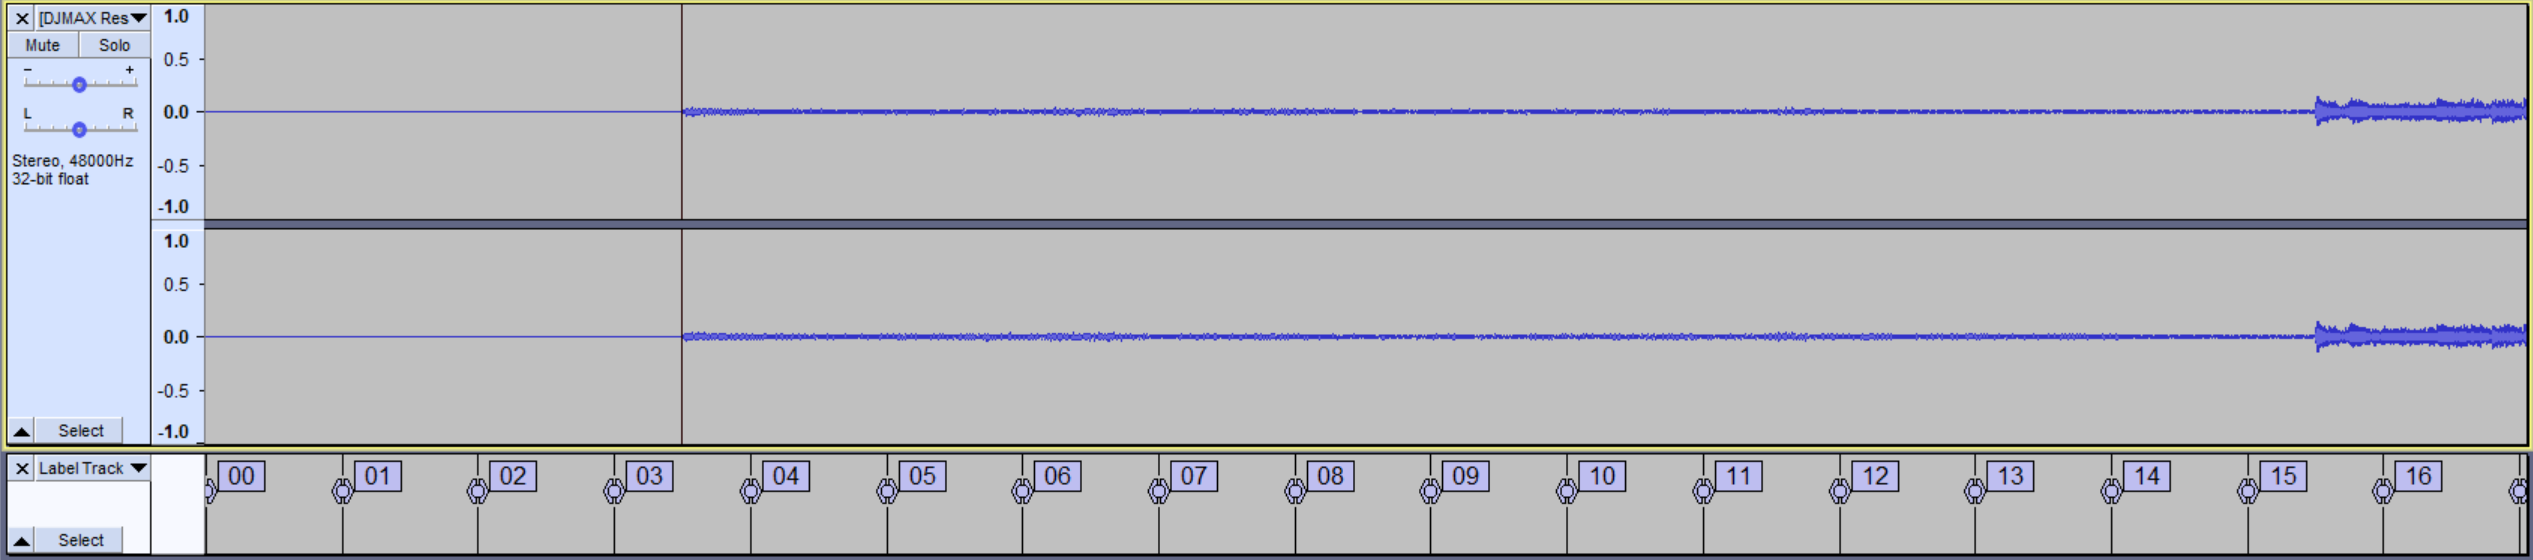
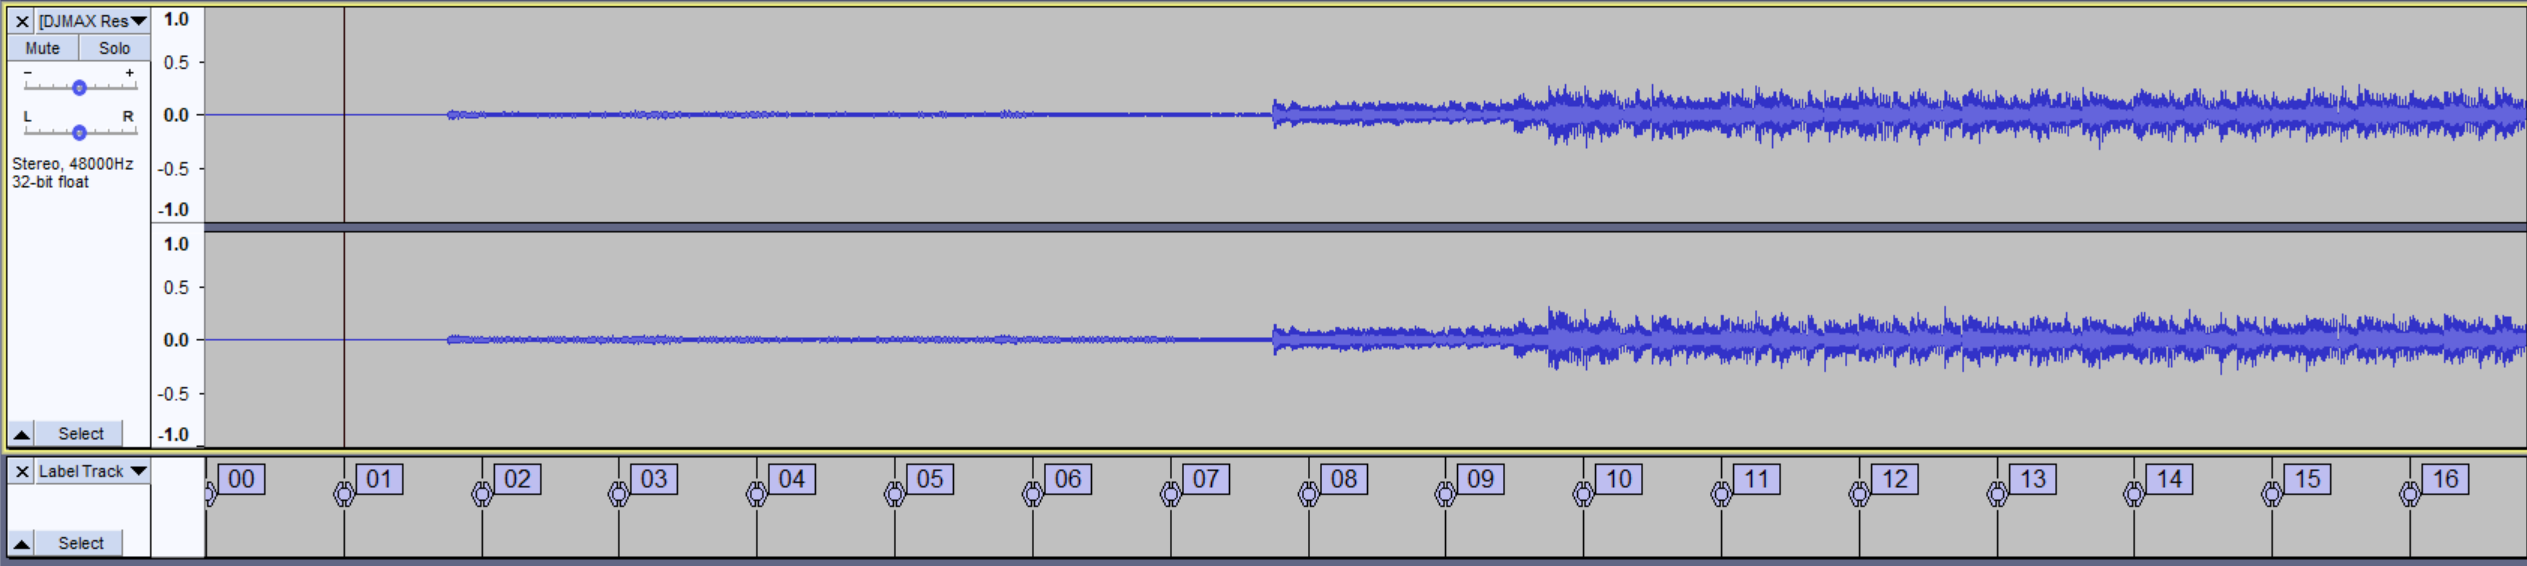
new formula and fixes for audio.md

Changed region(s): [[0.0, 0.0, 1.0, 1.0]]

diff --git a/docs/en/charting/audio.md b/docs/en/charting/audio.md
@@ -45,7 +45,7 @@ Next, double-click or **Ctrl + A** on your keyboard and go to Tools --> Regular 
 Now set:
 
 - "Create labels based on:" to *Label Interval*
-- "Label interval (seconds):" to ${120 \div BPM}$ (in this example, it starts with 250 BPM, so ${120 \div 250} = 0.48$)
+- "Label interval (seconds):" to ${240 \div BPM}$ (in this example, it starts with 250 BPM, so ${240 \div 250} = 0.96$)
 - "Adjust label interval to fit length:" to *No*
 - "Begining numbering from:" to *0*
 
@@ -57,32 +57,32 @@ Click OK, and this is our result.
 
 ![](./_sources_audio.md/result.png)
 
-As you can see, it starts in the middle between the label *2* and *4*. To zero the offset, you will have to make sure that the music begins on the label.
-::: tip NOTE
+As you can see, it starts in the middle between the label *1* and *2*. To zero the offset, you will have to make sure that the music begins on one of the labels.
 
-We recommend you syncing the labels that are an even number because of how syncing works with speed changes
+There are two approaches, either edit the music to start at Label 1 or start at 2. So either delete some silence (approach 1) or generate more silence (approach 2). This is dependent on your existing chart.
 
-:::
+#### Approach 1
 
-There are two approaches, either edit the music to start at Label 2 or start at 4. So either delete some silence (approach 1) or generate more silence (approach 2). This is dependent on your existing chart.
-
-To do approach 1, simply left-click and drag from where the music starts until it selects to label 2, then press **Delete**.
+To do approach 1, simply left-click and drag from where the music starts until it selects to label 1, then press **Delete**.
 
 ![](./_sources_audio.md/appr1.png)
 
-And for the second approach, first, make sure you have set selection to *Length and End of Selection*, then zoom in to label 0 and label 1, and drag from the start of the music to label 4.
+#### Approach 2
+
+For the second approach, first, make sure you have set selection to *Length and End of Selection*.
+Then, zoom in to label 0 and label 1, and drag from the start of the music to label 2.
 
 ![Length and End of Selection](./_sources_audio.md/length.png){.side-img}
 
 ![](./_sources_audio.md/appr2.png)
 
-The left bar will show the duration needed to generate silence. This happens to be 0.237. Note it.
+The left bar will show the duration of silence needed to generate. This happens to be 0.237. Note it.
 
-Deselect your selection, press Home, go to Generate --> Silence, and enter the value shown earlier.
+Deselect your selection, click on one of the silence part at the start, go to Generate --> Silence, and enter the value shown earlier.
 
 ![](./_sources_audio.md/appr2_after.png)
 
-Now the music starts at Label 4. And you can test play this with scanline shift/offset 0. If the scanline rebounds in line with the beat, you've done right.
+Now the music starts at Label 2, and you can test play this with scanline shift/offset 0. If the scanline rebounds in line with the beat, you've done right.
 
 ::: warning
 If your song has fade-in before it starts, always sync the label with the first beat and not the fade-in.
